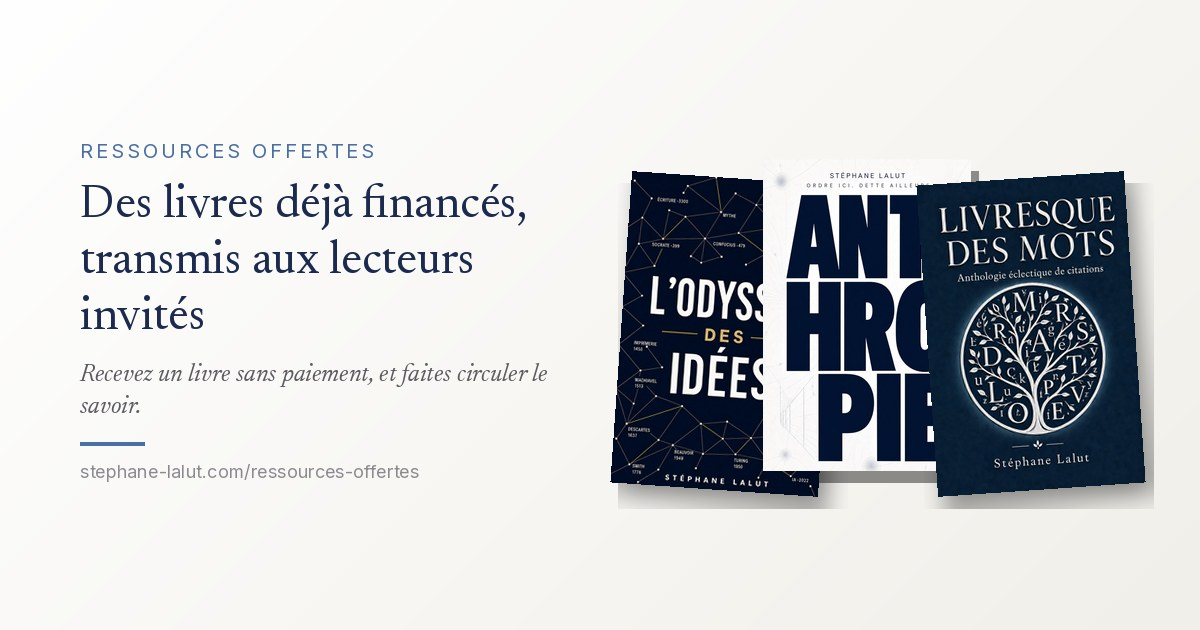
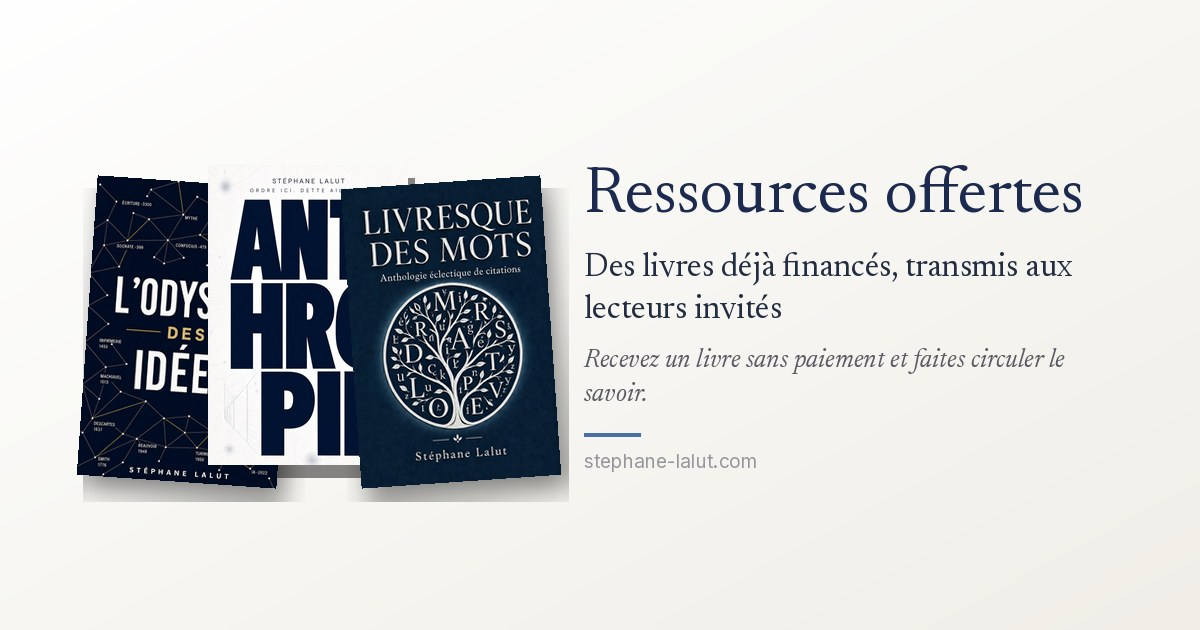
content(ressources): restructure -09 (action plus rapide) + og:image v2 lisible + meta courtes
- Structure : promesse -> logique (1 §) -> « Comment cela fonctionne » (remonté)
  -> catalogue -> bloc séparé « Pourquoi ce dispositif ? » (sens anthropie).
  Antithèse reformulée (« déjà financé »), passage redondant supprimé.
- og:image v2 (variante claire) : « Ressources offertes » en très grand, peu
  de mots, aéré, lisible en vignette WhatsApp (titre auto-ajusté). Variante
  navy fournie en alternative (og-ressources-offertes-dark.jpg).
- Métadonnées de partage courtes via override front matter (og_title,
  og_description, twitter_*) — head.html rend l'override par-page, les autres
  pages gardent leur défaut. Aucun lien Amazon, noindex conservés.

diff --git a/layouts/ressources-offertes/list.html b/layouts/ressources-offertes/list.html
@@ -12,45 +12,34 @@
     <p class="ressources-tagline">Recevez un livre sans paiement, sans abonnement, sans contrepartie.</p>
   </header>
 
-  <p class="ressources-intro ressources-intro--lead">Ce livre ne vous est pas offert
-  parce qu'il ne vaut rien. Il vous est offert parce qu'il a <strong>déjà été
-  payé</strong>.</p>
+  <p class="ressources-intro ressources-intro--lead">Ici, un livre n'est pas offert
+  parce qu'il ne vaut rien. Il vous est proposé parce qu'il a <strong>déjà été
+  financé</strong>.</p>
 
-  {{/* Chaîne visuelle : ligne principale lisible + ligne détaillée */}}
+  {{/* Chaîne visuelle — ligne principale unique */}}
   <div class="ressources-chain ressources-chain--main">
     <span class="ressources-chain__node">Un livre acheté</span><span class="ressources-chain__arrow" aria-hidden="true">→</span>
     <span class="ressources-chain__node">un lecteur invité</span><span class="ressources-chain__arrow" aria-hidden="true">→</span>
     <span class="ressources-chain__node ressources-chain__node--last">le savoir circule</span>
   </div>
-  <p class="ressources-chain-detail">Vente&nbsp;→ réinvestissement&nbsp;→ livre
-  financé&nbsp;→ transmission&nbsp;→ nouveau relais possible</p>
 
-  <p class="ressources-intro">Un livre acheté peut ouvrir l'accès à un autre lecteur. Une
-  partie des bénéfices de mes ouvrages sert à financer de nouveaux exemplaires Kindle,
-  transmis à des lecteurs invités. Parce que je publie moi-même mes livres, j'en maîtrise
-  la chaîne d'édition&nbsp;: je peux réorienter une part de leur valeur vers leur
-  diffusion, ce qu'un circuit classique ne permet pas.</p>
-  <p class="ressources-intro">Le principe est volontairement alternatif&nbsp;: faire
-  circuler les livres par les lecteurs, les relais et les prescripteurs, plutôt que
-  dépendre uniquement des circuits publicitaires. Vous recevez un livre déjà financé,
-  directement accessible via Amazon.fr, sans inscription commerciale et sans demande
-  d'avis.</p>
-  <p class="ressources-intro">Cette logique rejoint mon travail sur l'anthropie&nbsp;:
-  toute organisation déplace un coût. Ici, une part de la valeur créée par les ventes est
-  déplacée vers l'accès au savoir, plutôt que vers la seule captation publicitaire. Le
-  lecteur ne devient pas une cible&nbsp;: il devient un relais possible.</p>
+  <p class="ressources-intro">Une partie des bénéfices issus de mes ouvrages sert à
+  financer de nouveaux exemplaires Kindle, transmis à des lecteurs invités. Parce que je
+  publie mes livres de manière indépendante, je peux réorienter une part de leur valeur
+  vers leur diffusion directe&nbsp;: moins de dépendance aux seuls circuits publicitaires,
+  plus de transmission de lecteur à lecteur.</p>
 
   {{/* ── 2. Fonctionnement ── */}}
   <section class="ressources-how">
     <h2 class="ressources-kicker">Comment cela fonctionne</h2>
     <p>Vous avez reçu cette invitation parce qu'un lecteur, un relais ou l'auteur a
     souhaité vous donner accès à un livre déjà financé.</p>
-    <p>Choisissez le livre qui vous intéresse, puis cliquez sur «&nbsp;Obtenir mon
-    exemplaire Kindle prépayé&nbsp;». Le système vous attribue un lien individuel et
-    ouvre Amazon.fr. Connectez-vous à votre compte Amazon.fr pour accepter le livre,
-    sans paiement.</p>
+    <p>Choisissez le titre qui vous intéresse, puis cliquez sur «&nbsp;Obtenir mon
+    exemplaire Kindle prépayé&nbsp;». Un lien individuel vous est attribué et Amazon.fr
+    s'ouvre dans un nouvel onglet. Connectez-vous à votre compte Amazon.fr pour accepter
+    le livre, sans paiement.</p>
     <p>Chaque lien est prépayé, individuel et utilisable une seule fois. Dans cette
-    première phase, chaque lecteur ne peut recevoir qu'un seul livre parmi les titres
+    première phase, chaque lecteur peut recevoir un seul livre parmi les titres
     proposés.</p>
     <p>Aucune contrepartie n'est demandée&nbsp;: ni avis, ni inscription commerciale, ni
     abonnement. Si le livre vous paraît utile, vous êtes simplement libre de le lire, de
@@ -107,6 +96,15 @@
       Vous pouvez aussi <a href="{{ "/contact/" | relLangURL }}">me contacter</a> pour
       recevoir votre exemplaire.</p>
     </noscript>
+  </section>
+
+  {{/* ── 3 bis. Pourquoi ce dispositif ? (sens intellectuel / anthropie) ── */}}
+  <section class="ressources-how ressources-why">
+    <h2 class="ressources-kicker">Pourquoi ce dispositif&nbsp;?</h2>
+    <p>Cette logique rejoint mon travail sur l'anthropie&nbsp;: toute organisation déplace
+    un coût. Ici, une part de la valeur créée par les ventes est déplacée vers l'accès au
+    savoir plutôt que vers la seule captation publicitaire.</p>
+    <p>Le lecteur ne devient pas une cible&nbsp;: il devient un relais possible.</p>
   </section>
 
   {{/* ── 4. Transmission ── */}}

diff --git a/layouts/partials/head.html b/layouts/partials/head.html
@@ -35,8 +35,12 @@
 <meta property="og:type" content="{{ if .IsPage }}article{{ else }}website{{ end }}">
 <meta property="og:site_name" content="Stéphane Lalut — Anthropie">
 <meta property="og:locale" content="{{ if eq .Lang "en" }}en_US{{ else }}fr_FR{{ end }}">
-<meta property="og:title" content="{{ if .IsHome }}{{ .Site.Title }}{{ else }}{{ .Title }} — {{ .Site.Title }}{{ end }}">
-<meta property="og:description" content="{{ with .Description }}{{ partial "desc-figures.html" (dict "text" . "isbn" $.Params.isbn) }}{{ else }}{{ .Site.Params.description }}{{ end }}">
+{{- $defTitle := cond .IsHome .Site.Title (printf "%s — %s" .Title .Site.Title) -}}
+{{- $defDesc := "" -}}{{- with .Description -}}{{- $defDesc = partial "desc-figures.html" (dict "text" . "isbn" $.Params.isbn) -}}{{- else -}}{{- $defDesc = $.Site.Params.description -}}{{- end -}}
+{{- $ogTitle := .Params.og_title | default $defTitle -}}
+{{- $ogDesc := .Params.og_description | default $defDesc -}}
+<meta property="og:title" content="{{ $ogTitle }}">
+<meta property="og:description" content="{{ $ogDesc }}">
 <meta property="og:url" content="{{ .Permalink }}">
 {{- $ogImg := .Params.og_image | default "images/og-image.jpg" -}}
 {{- $ogAlt := .Params.og_image_alt | default "Stéphane Lalut — Anthropie : on ne crée pas l'ordre, on déplace le désordre." -}}
@@ -49,8 +53,8 @@
 
 <!-- Twitter Card -->
 <meta name="twitter:card" content="summary_large_image">
-<meta name="twitter:title" content="{{ if .IsHome }}{{ .Site.Title }}{{ else }}{{ .Title }} — {{ .Site.Title }}{{ end }}">
-<meta name="twitter:description" content="{{ with .Description }}{{ partial "desc-figures.html" (dict "text" . "isbn" $.Params.isbn) }}{{ else }}{{ .Site.Params.description }}{{ end }}">
+<meta name="twitter:title" content="{{ .Params.twitter_title | default $ogTitle }}">
+<meta name="twitter:description" content="{{ .Params.twitter_description | default $ogDesc }}">
 <meta name="twitter:image" content="{{ $ogImg | absURL }}">
 <meta name="twitter:image:alt" content="{{ $ogAlt }}">
 

diff --git a/content/ressources-offertes/_index.md b/content/ressources-offertes/_index.md
@@ -1,10 +1,15 @@
 ---
-title: "Ressources offertes — exemplaires Kindle prépayés"
-description: "Exemplaires Kindle prépayés transmis sur invitation : une partie des bénéfices des ventes est réinvestie dans la diffusion des livres."
+title: "Ressources offertes — des livres déjà financés"
+description: "Recevez un livre sans paiement. Des ouvrages transmis sur invitation pour faire circuler le savoir."
 # Page sur INVITATION : volontairement non indexée et hors sitemap.
 # L'URL circule par les invitations (e-mail, partage), jamais par les moteurs.
 # Doctrine du dispositif : aucun lien Amazon prépayé n'apparaît jamais sur le site.
 noindex: true
+# Aperçu de partage (WhatsApp/messageries) — court et lisible en vignette.
+og_title: "Ressources offertes — des livres déjà financés"
+og_description: "Recevez un livre sans paiement. Des ouvrages transmis sur invitation pour faire circuler le savoir."
+twitter_title: "Ressources offertes — des livres déjà financés"
+twitter_description: "Recevez un livre sans paiement. Une chaîne de transmission du savoir."
 og_image: "images/og-ressources-offertes.jpg"
 og_image_alt: "Ressources offertes — des livres déjà financés, transmis aux lecteurs invités. L'Odyssée des idées, Anthropie et Livresque des mots."
 _build: